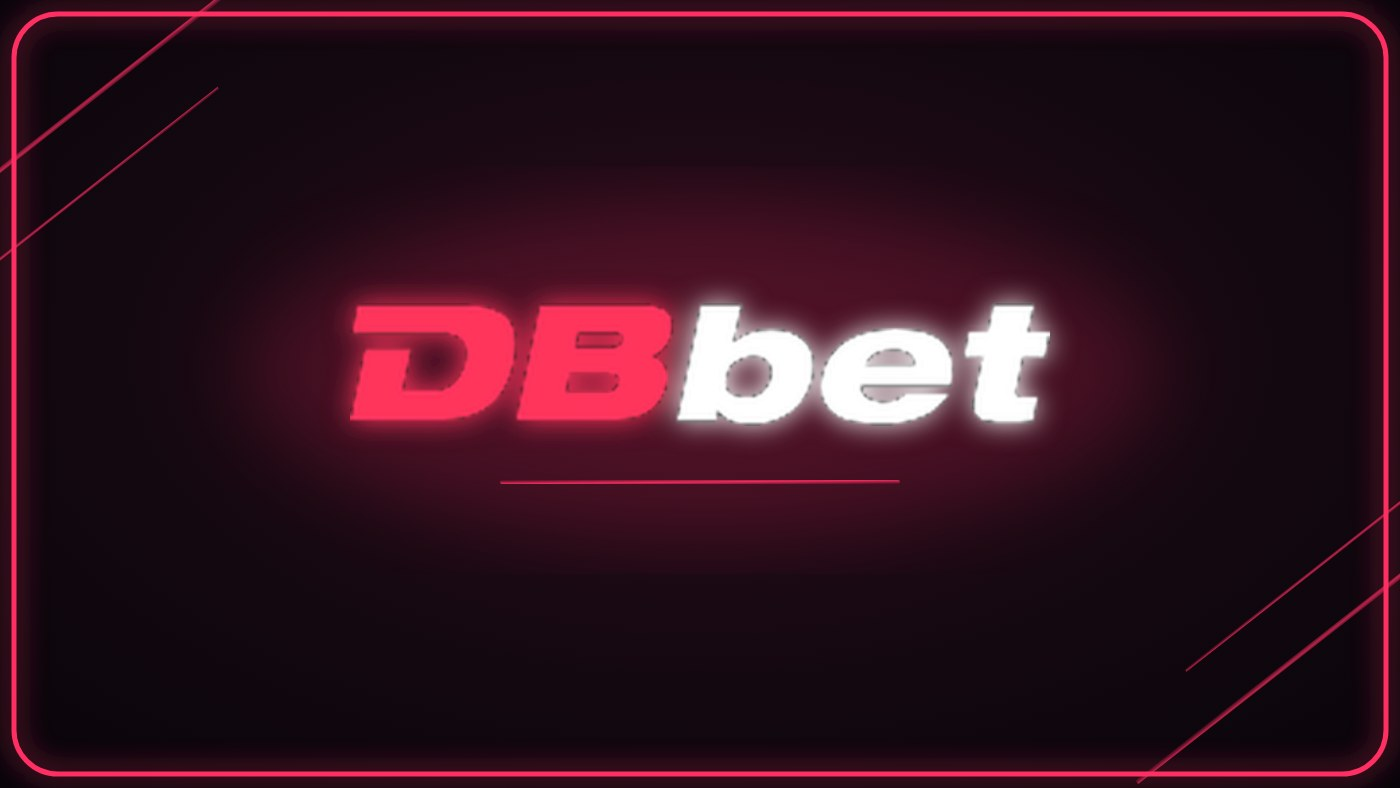
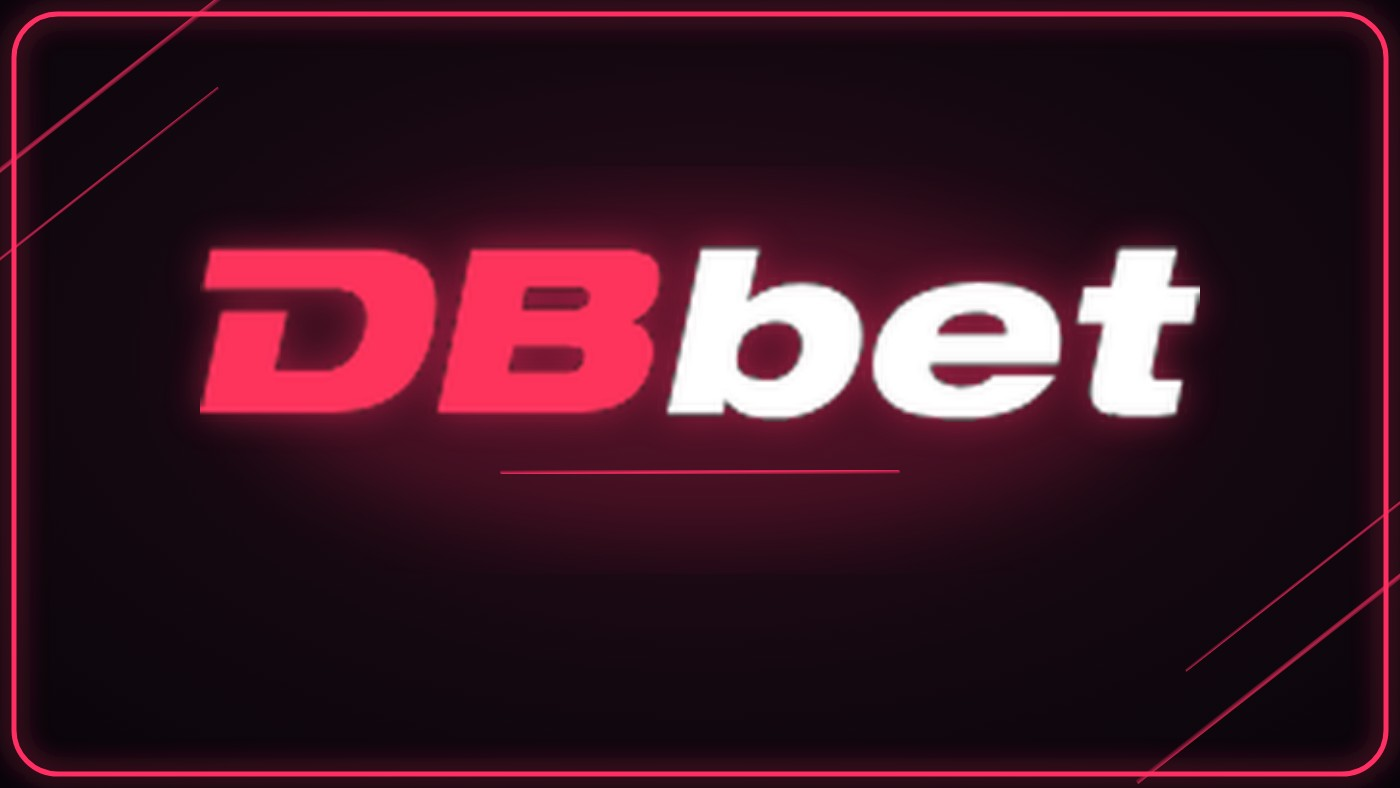
DBbet: logotipo maior e mais nítido no cartão
Claude-Session: https://claude.ai/code/session_01Ce7f2VWAVGxQebodxVXZ5A

Changed region(s): [[0.1229, 0.2741, 0.86, 0.6396]]

diff --git a/index.html b/index.html
@@ -146,7 +146,7 @@
   </div>
 </article>
 <article class="offer-card gm-card" data-cats="welcome fs sports new" data-name="dbbet" id="offer-dbbet">
-  <div class="gm-art" style="--art-img: url('assets/brands/art-dbbet.jpg?v=2')">
+  <div class="gm-art" style="--art-img: url('assets/brands/art-dbbet.jpg?v=3')">
     <div class="gm-badges"><span class="badge new">Novo</span><span class="badge fs">Free Spins</span></div>
     <img class="gm-logo" src="assets/brands/dbbet-logo.png" alt="DBbet" loading="lazy" style="max-height:46px">
     <div class="gm-blur" aria-hidden="true"></div>
@@ -354,7 +354,7 @@
     <div class="offer-foot"><a class="gm-claim" href="https://moy.auraodin.com/redirect.aspx?pid=155521&amp;lpid=1687&amp;bid=1719" target="_blank" rel="noopener noreferrer sponsored">Reclamar bónus</a><a class="tc-link" href="https://moy.auraodin.com/redirect.aspx?pid=155521&amp;lpid=1687&amp;bid=1719" target="_blank" rel="noopener noreferrer">T&amp;C</a></div>
   </div>
 </article></div>
-  <div class="brand-marquee" role="region" aria-label="Marcas parceiras"><div class="brand-marquee-track"><a class="brand-chip" href="casinos.html#offer-captainsbet" title="CaptainsBet" style="--art-img: url('assets/brands/art-captainsbet.jpg?v=2')"><img src="assets/brands/captainsbet-wordmark.png" alt="CaptainsBet"></a><a class="brand-chip" href="casinos.html#offer-dbbet" title="DBbet" style="--art-img: url('assets/brands/art-dbbet.jpg?v=2')"><img src="assets/brands/dbbet-logo.png" alt="DBbet"></a><a class="brand-chip" href="casinos.html#offer-coldbet" title="Coldbet" style="--art-img: url('assets/brands/art-coldbet.jpg?v=1')"><img src="assets/brands/coldbet-logo.png" alt="Coldbet"></a><a class="brand-chip" href="casinos.html#offer-22bit" title="22bit" style="--art-img: url('assets/brands/art-22bit.jpg?v=2')"><img src="assets/brands/22bit.svg" alt="22bit"></a><a class="brand-chip" href="casinos.html#offer-betlabel" title="Betlabel" style="--art-img: url('assets/brands/art-betlabel.jpg?v=2')"><img src="assets/brands/betlabel.svg" alt="Betlabel"></a><a class="brand-chip" href="casinos.html#offer-royalxo" title="Royal XO" style="--art-img: url('assets/brands/art-royalxo.jpg?v=2')"><img src="assets/brands/royalxo-logo.png" alt="Royal XO"></a><a class="brand-chip" href="casinos.html#offer-safecasino" title="SafeCasino" style="--art-img: url('assets/brands/art-safecasino.jpg?v=2')"><img src="assets/brands/safecasino-logo.png" alt="SafeCasino"></a><a aria-hidden="true" tabindex="-1" class="brand-chip" href="casinos.html#offer-coldbet" title="Coldbet" style="--art-img: url('assets/brands/art-coldbet.jpg?v=1')"><img src="assets/brands/coldbet-logo.png" alt="Coldbet"></a><a class="brand-chip" href="casinos.html#offer-captainsbet" title="CaptainsBet" style="--art-img: url('assets/brands/art-captainsbet.jpg?v=2')" aria-hidden="true" tabindex="-1"><img src="assets/brands/captainsbet-wordmark.png" alt=""></a><a class="brand-chip" href="casinos.html#offer-22bit" title="22bit" style="--art-img: url('assets/brands/art-22bit.jpg?v=2')" aria-hidden="true" tabindex="-1"><img src="assets/brands/22bit.svg" alt=""></a><a class="brand-chip" href="casinos.html#offer-betlabel" title="Betlabel" style="--art-img: url('assets/brands/art-betlabel.jpg?v=2')" aria-hidden="true" tabindex="-1"><img src="assets/brands/betlabel.svg" alt=""></a><a class="brand-chip" href="casinos.html#offer-royalxo" title="Royal XO" style="--art-img: url('assets/brands/art-royalxo.jpg?v=2')" aria-hidden="true" tabindex="-1"><img src="assets/brands/royalxo-logo.png" alt=""></a><a class="brand-chip" href="casinos.html#offer-safecasino" title="SafeCasino" style="--art-img: url('assets/brands/art-safecasino.jpg?v=2')" aria-hidden="true" tabindex="-1"><img src="assets/brands/safecasino-logo.png" alt=""></a><a aria-hidden="true" tabindex="-1" class="brand-chip" href="casinos.html#offer-coldbet" title="Coldbet" style="--art-img: url('assets/brands/art-coldbet.jpg?v=1')"><img src="assets/brands/coldbet-logo.png" alt="Coldbet"></a><a class="brand-chip" href="casinos.html#offer-captainsbet" title="CaptainsBet" style="--art-img: url('assets/brands/art-captainsbet.jpg?v=2')" aria-hidden="true" tabindex="-1"><img src="assets/brands/captainsbet-wordmark.png" alt=""></a><a class="brand-chip" href="casinos.html#offer-22bit" title="22bit" style="--art-img: url('assets/brands/art-22bit.jpg?v=2')" aria-hidden="true" tabindex="-1"><img src="assets/brands/22bit.svg" alt=""></a><a class="brand-chip" href="casinos.html#offer-betlabel" title="Betlabel" style="--art-img: url('assets/brands/art-betlabel.jpg?v=2')" aria-hidden="true" tabindex="-1"><img src="assets/brands/betlabel.svg" alt=""></a><a class="brand-chip" href="casinos.html#offer-royalxo" title="Royal XO" style="--art-img: url('assets/brands/art-royalxo.jpg?v=2')" aria-hidden="true" tabindex="-1"><img src="assets/brands/royalxo-logo.png" alt=""></a><a class="brand-chip" href="casinos.html#offer-safecasino" title="SafeCasino" style="--art-img: url('assets/brands/art-safecasino.jpg?v=2')" aria-hidden="true" tabindex="-1"><img src="assets/brands/safecasino-logo.png" alt=""></a><a aria-hidden="true" tabindex="-1" class="brand-chip" href="casinos.html#offer-coldbet" title="Coldbet" style="--art-img: url('assets/brands/art-coldbet.jpg?v=1')"><img src="assets/brands/coldbet-logo.png" alt="Coldbet"></a><a class="brand-chip" href="casinos.html#offer-captainsbet" title="CaptainsBet" style="--art-img: url('assets/brands/art-captainsbet.jpg?v=2')" aria-hidden="true" tabindex="-1"><img src="assets/brands/captainsbet-wordmark.png" alt=""></a><a class="brand-chip" href="casinos.html#offer-22bit" title="22bit" style="--art-img: url('assets/brands/art-22bit.jpg?v=2')" aria-hidden="true" tabindex="-1"><img src="assets/brands/22bit.svg" alt=""></a><a class="brand-chip" href="casinos.html#offer-betlabel" title="Betlabel" style="--art-img: url('assets/brands/art-betlabel.jpg?v=2')" aria-hidden="true" tabindex="-1"><img src="assets/brands/betlabel.svg" alt=""></a><a class="brand-chip" href="casinos.html#offer-royalxo" title="Royal XO" style="--art-img: url('assets/brands/art-royalxo.jpg?v=2')" aria-hidden="true" tabindex="-1"><img src="assets/brands/royalxo-logo.png" alt=""></a><a class="brand-chip" href="casinos.html#offer-safecasino" title="SafeCasino" style="--art-img: url('assets/brands/art-safecasino.jpg?v=2')" aria-hidden="true" tabindex="-1"><img src="assets/brands/safecasino-logo.png" alt=""></a><a aria-hidden="true" tabindex="-1" class="brand-chip" href="casinos.html#offer-coldbet" title="Coldbet" style="--art-img: url('assets/brands/art-coldbet.jpg?v=1')"><img src="assets/brands/coldbet-logo.png" alt="Coldbet"></a><a class="brand-chip" href="casinos.html#offer-captainsbet" title="CaptainsBet" style="--art-img: url('assets/brands/art-captainsbet.jpg?v=2')" aria-hidden="true" tabindex="-1"><img src="assets/brands/captainsbet-wordmark.png" alt=""></a><a class="brand-chip" href="casinos.html#offer-22bit" title="22bit" style="--art-img: url('assets/brands/art-22bit.jpg?v=2')" aria-hidden="true" tabindex="-1"><img src="assets/brands/22bit.svg" alt=""></a><a class="brand-chip" href="casinos.html#offer-betlabel" title="Betlabel" style="--art-img: url('assets/brands/art-betlabel.jpg?v=2')" aria-hidden="true" tabindex="-1"><img src="assets/brands/betlabel.svg" alt=""></a><a class="brand-chip" href="casinos.html#offer-royalxo" title="Royal XO" style="--art-img: url('assets/brands/art-royalxo.jpg?v=2')" aria-hidden="true" tabindex="-1"><img src="assets/brands/royalxo-logo.png" alt=""></a><a class="brand-chip" href="casinos.html#offer-safecasino" title="SafeCasino" style="--art-img: url('assets/brands/art-safecasino.jpg?v=2')" aria-hidden="true" tabindex="-1"><img src="assets/brands/safecasino-logo.png" alt=""></a><a aria-hidden="true" tabindex="-1" class="brand-chip" href="casinos.html#offer-coldbet" title="Coldbet" style="--art-img: url('assets/brands/art-coldbet.jpg?v=1')"><img src="assets/brands/coldbet-logo.png" alt="Coldbet"></a><a class="brand-chip" href="casinos.html#offer-captainsbet" title="CaptainsBet" style="--art-img: url('assets/brands/art-captainsbet.jpg?v=2')" aria-hidden="true" tabindex="-1"><img src="assets/brands/captainsbet-wordmark.png" alt=""></a><a class="brand-chip" href="casinos.html#offer-22bit" title="22bit" style="--art-img: url('assets/brands/art-22bit.jpg?v=2')" aria-hidden="true" tabindex="-1"><img src="assets/brands/22bit.svg" alt=""></a><a class="brand-chip" href="casinos.html#offer-betlabel" title="Betlabel" style="--art-img: url('assets/brands/art-betlabel.jpg?v=2')" aria-hidden="true" tabindex="-1"><img src="assets/brands/betlabel.svg" alt=""></a><a class="brand-chip" href="casinos.html#offer-royalxo" title="Royal XO" style="--art-img: url('assets/brands/art-royalxo.jpg?v=2')" aria-hidden="true" tabindex="-1"><img src="assets/brands/royalxo-logo.png" alt=""></a><a class="brand-chip" href="casinos.html#offer-safecasino" title="SafeCasino" style="--art-img: url('assets/brands/art-safecasino.jpg?v=2')" aria-hidden="true" tabindex="-1"><img src="assets/brands/safecasino-logo.png" alt=""></a></div></div>
+  <div class="brand-marquee" role="region" aria-label="Marcas parceiras"><div class="brand-marquee-track"><a class="brand-chip" href="casinos.html#offer-captainsbet" title="CaptainsBet" style="--art-img: url('assets/brands/art-captainsbet.jpg?v=2')"><img src="assets/brands/captainsbet-wordmark.png" alt="CaptainsBet"></a><a class="brand-chip" href="casinos.html#offer-dbbet" title="DBbet" style="--art-img: url('assets/brands/art-dbbet.jpg?v=3')"><img src="assets/brands/dbbet-logo.png" alt="DBbet"></a><a class="brand-chip" href="casinos.html#offer-coldbet" title="Coldbet" style="--art-img: url('assets/brands/art-coldbet.jpg?v=1')"><img src="assets/brands/coldbet-logo.png" alt="Coldbet"></a><a class="brand-chip" href="casinos.html#offer-22bit" title="22bit" style="--art-img: url('assets/brands/art-22bit.jpg?v=2')"><img src="assets/brands/22bit.svg" alt="22bit"></a><a class="brand-chip" href="casinos.html#offer-betlabel" title="Betlabel" style="--art-img: url('assets/brands/art-betlabel.jpg?v=2')"><img src="assets/brands/betlabel.svg" alt="Betlabel"></a><a class="brand-chip" href="casinos.html#offer-royalxo" title="Royal XO" style="--art-img: url('assets/brands/art-royalxo.jpg?v=2')"><img src="assets/brands/royalxo-logo.png" alt="Royal XO"></a><a class="brand-chip" href="casinos.html#offer-safecasino" title="SafeCasino" style="--art-img: url('assets/brands/art-safecasino.jpg?v=2')"><img src="assets/brands/safecasino-logo.png" alt="SafeCasino"></a><a aria-hidden="true" tabindex="-1" class="brand-chip" href="casinos.html#offer-coldbet" title="Coldbet" style="--art-img: url('assets/brands/art-coldbet.jpg?v=1')"><img src="assets/brands/coldbet-logo.png" alt="Coldbet"></a><a class="brand-chip" href="casinos.html#offer-captainsbet" title="CaptainsBet" style="--art-img: url('assets/brands/art-captainsbet.jpg?v=2')" aria-hidden="true" tabindex="-1"><img src="assets/brands/captainsbet-wordmark.png" alt=""></a><a class="brand-chip" href="casinos.html#offer-22bit" title="22bit" style="--art-img: url('assets/brands/art-22bit.jpg?v=2')" aria-hidden="true" tabindex="-1"><img src="assets/brands/22bit.svg" alt=""></a><a class="brand-chip" href="casinos.html#offer-betlabel" title="Betlabel" style="--art-img: url('assets/brands/art-betlabel.jpg?v=2')" aria-hidden="true" tabindex="-1"><img src="assets/brands/betlabel.svg" alt=""></a><a class="brand-chip" href="casinos.html#offer-royalxo" title="Royal XO" style="--art-img: url('assets/brands/art-royalxo.jpg?v=2')" aria-hidden="true" tabindex="-1"><img src="assets/brands/royalxo-logo.png" alt=""></a><a class="brand-chip" href="casinos.html#offer-safecasino" title="SafeCasino" style="--art-img: url('assets/brands/art-safecasino.jpg?v=2')" aria-hidden="true" tabindex="-1"><img src="assets/brands/safecasino-logo.png" alt=""></a><a aria-hidden="true" tabindex="-1" class="brand-chip" href="casinos.html#offer-coldbet" title="Coldbet" style="--art-img: url('assets/brands/art-coldbet.jpg?v=1')"><img src="assets/brands/coldbet-logo.png" alt="Coldbet"></a><a class="brand-chip" href="casinos.html#offer-captainsbet" title="CaptainsBet" style="--art-img: url('assets/brands/art-captainsbet.jpg?v=2')" aria-hidden="true" tabindex="-1"><img src="assets/brands/captainsbet-wordmark.png" alt=""></a><a class="brand-chip" href="casinos.html#offer-22bit" title="22bit" style="--art-img: url('assets/brands/art-22bit.jpg?v=2')" aria-hidden="true" tabindex="-1"><img src="assets/brands/22bit.svg" alt=""></a><a class="brand-chip" href="casinos.html#offer-betlabel" title="Betlabel" style="--art-img: url('assets/brands/art-betlabel.jpg?v=2')" aria-hidden="true" tabindex="-1"><img src="assets/brands/betlabel.svg" alt=""></a><a class="brand-chip" href="casinos.html#offer-royalxo" title="Royal XO" style="--art-img: url('assets/brands/art-royalxo.jpg?v=2')" aria-hidden="true" tabindex="-1"><img src="assets/brands/royalxo-logo.png" alt=""></a><a class="brand-chip" href="casinos.html#offer-safecasino" title="SafeCasino" style="--art-img: url('assets/brands/art-safecasino.jpg?v=2')" aria-hidden="true" tabindex="-1"><img src="assets/brands/safecasino-logo.png" alt=""></a><a aria-hidden="true" tabindex="-1" class="brand-chip" href="casinos.html#offer-coldbet" title="Coldbet" style="--art-img: url('assets/brands/art-coldbet.jpg?v=1')"><img src="assets/brands/coldbet-logo.png" alt="Coldbet"></a><a class="brand-chip" href="casinos.html#offer-captainsbet" title="CaptainsBet" style="--art-img: url('assets/brands/art-captainsbet.jpg?v=2')" aria-hidden="true" tabindex="-1"><img src="assets/brands/captainsbet-wordmark.png" alt=""></a><a class="brand-chip" href="casinos.html#offer-22bit" title="22bit" style="--art-img: url('assets/brands/art-22bit.jpg?v=2')" aria-hidden="true" tabindex="-1"><img src="assets/brands/22bit.svg" alt=""></a><a class="brand-chip" href="casinos.html#offer-betlabel" title="Betlabel" style="--art-img: url('assets/brands/art-betlabel.jpg?v=2')" aria-hidden="true" tabindex="-1"><img src="assets/brands/betlabel.svg" alt=""></a><a class="brand-chip" href="casinos.html#offer-royalxo" title="Royal XO" style="--art-img: url('assets/brands/art-royalxo.jpg?v=2')" aria-hidden="true" tabindex="-1"><img src="assets/brands/royalxo-logo.png" alt=""></a><a class="brand-chip" href="casinos.html#offer-safecasino" title="SafeCasino" style="--art-img: url('assets/brands/art-safecasino.jpg?v=2')" aria-hidden="true" tabindex="-1"><img src="assets/brands/safecasino-logo.png" alt=""></a><a aria-hidden="true" tabindex="-1" class="brand-chip" href="casinos.html#offer-coldbet" title="Coldbet" style="--art-img: url('assets/brands/art-coldbet.jpg?v=1')"><img src="assets/brands/coldbet-logo.png" alt="Coldbet"></a><a class="brand-chip" href="casinos.html#offer-captainsbet" title="CaptainsBet" style="--art-img: url('assets/brands/art-captainsbet.jpg?v=2')" aria-hidden="true" tabindex="-1"><img src="assets/brands/captainsbet-wordmark.png" alt=""></a><a class="brand-chip" href="casinos.html#offer-22bit" title="22bit" style="--art-img: url('assets/brands/art-22bit.jpg?v=2')" aria-hidden="true" tabindex="-1"><img src="assets/brands/22bit.svg" alt=""></a><a class="brand-chip" href="casinos.html#offer-betlabel" title="Betlabel" style="--art-img: url('assets/brands/art-betlabel.jpg?v=2')" aria-hidden="true" tabindex="-1"><img src="assets/brands/betlabel.svg" alt=""></a><a class="brand-chip" href="casinos.html#offer-royalxo" title="Royal XO" style="--art-img: url('assets/brands/art-royalxo.jpg?v=2')" aria-hidden="true" tabindex="-1"><img src="assets/brands/royalxo-logo.png" alt=""></a><a class="brand-chip" href="casinos.html#offer-safecasino" title="SafeCasino" style="--art-img: url('assets/brands/art-safecasino.jpg?v=2')" aria-hidden="true" tabindex="-1"><img src="assets/brands/safecasino-logo.png" alt=""></a><a aria-hidden="true" tabindex="-1" class="brand-chip" href="casinos.html#offer-coldbet" title="Coldbet" style="--art-img: url('assets/brands/art-coldbet.jpg?v=1')"><img src="assets/brands/coldbet-logo.png" alt="Coldbet"></a><a class="brand-chip" href="casinos.html#offer-captainsbet" title="CaptainsBet" style="--art-img: url('assets/brands/art-captainsbet.jpg?v=2')" aria-hidden="true" tabindex="-1"><img src="assets/brands/captainsbet-wordmark.png" alt=""></a><a class="brand-chip" href="casinos.html#offer-22bit" title="22bit" style="--art-img: url('assets/brands/art-22bit.jpg?v=2')" aria-hidden="true" tabindex="-1"><img src="assets/brands/22bit.svg" alt=""></a><a class="brand-chip" href="casinos.html#offer-betlabel" title="Betlabel" style="--art-img: url('assets/brands/art-betlabel.jpg?v=2')" aria-hidden="true" tabindex="-1"><img src="assets/brands/betlabel.svg" alt=""></a><a class="brand-chip" href="casinos.html#offer-royalxo" title="Royal XO" style="--art-img: url('assets/brands/art-royalxo.jpg?v=2')" aria-hidden="true" tabindex="-1"><img src="assets/brands/royalxo-logo.png" alt=""></a><a class="brand-chip" href="casinos.html#offer-safecasino" title="SafeCasino" style="--art-img: url('assets/brands/art-safecasino.jpg?v=2')" aria-hidden="true" tabindex="-1"><img src="assets/brands/safecasino-logo.png" alt=""></a></div></div>
 </section><section class="panel" id="schedule">
   <div class="panel-head">
     <div><h2 class="panel-title">Horário das lives</h2><p class="panel-sub" id="scheduleSub">Horas no teu fuso horário. O horário pode mudar.</p></div>

diff --git a/casinos.html b/casinos.html
@@ -110,7 +110,7 @@
   </div>
 </article>
 <article class="offer-card gm-card" data-cats="welcome fs sports new" data-name="dbbet" id="offer-dbbet">
-  <div class="gm-art" style="--art-img: url('assets/brands/art-dbbet.jpg?v=2')">
+  <div class="gm-art" style="--art-img: url('assets/brands/art-dbbet.jpg?v=3')">
     <div class="gm-badges"><span class="badge new">Novo</span><span class="badge fs">Free Spins</span></div>
     <img class="gm-logo" src="assets/brands/dbbet-logo.png" alt="DBbet" loading="lazy" style="max-height:46px">
     <div class="gm-blur" aria-hidden="true"></div>
